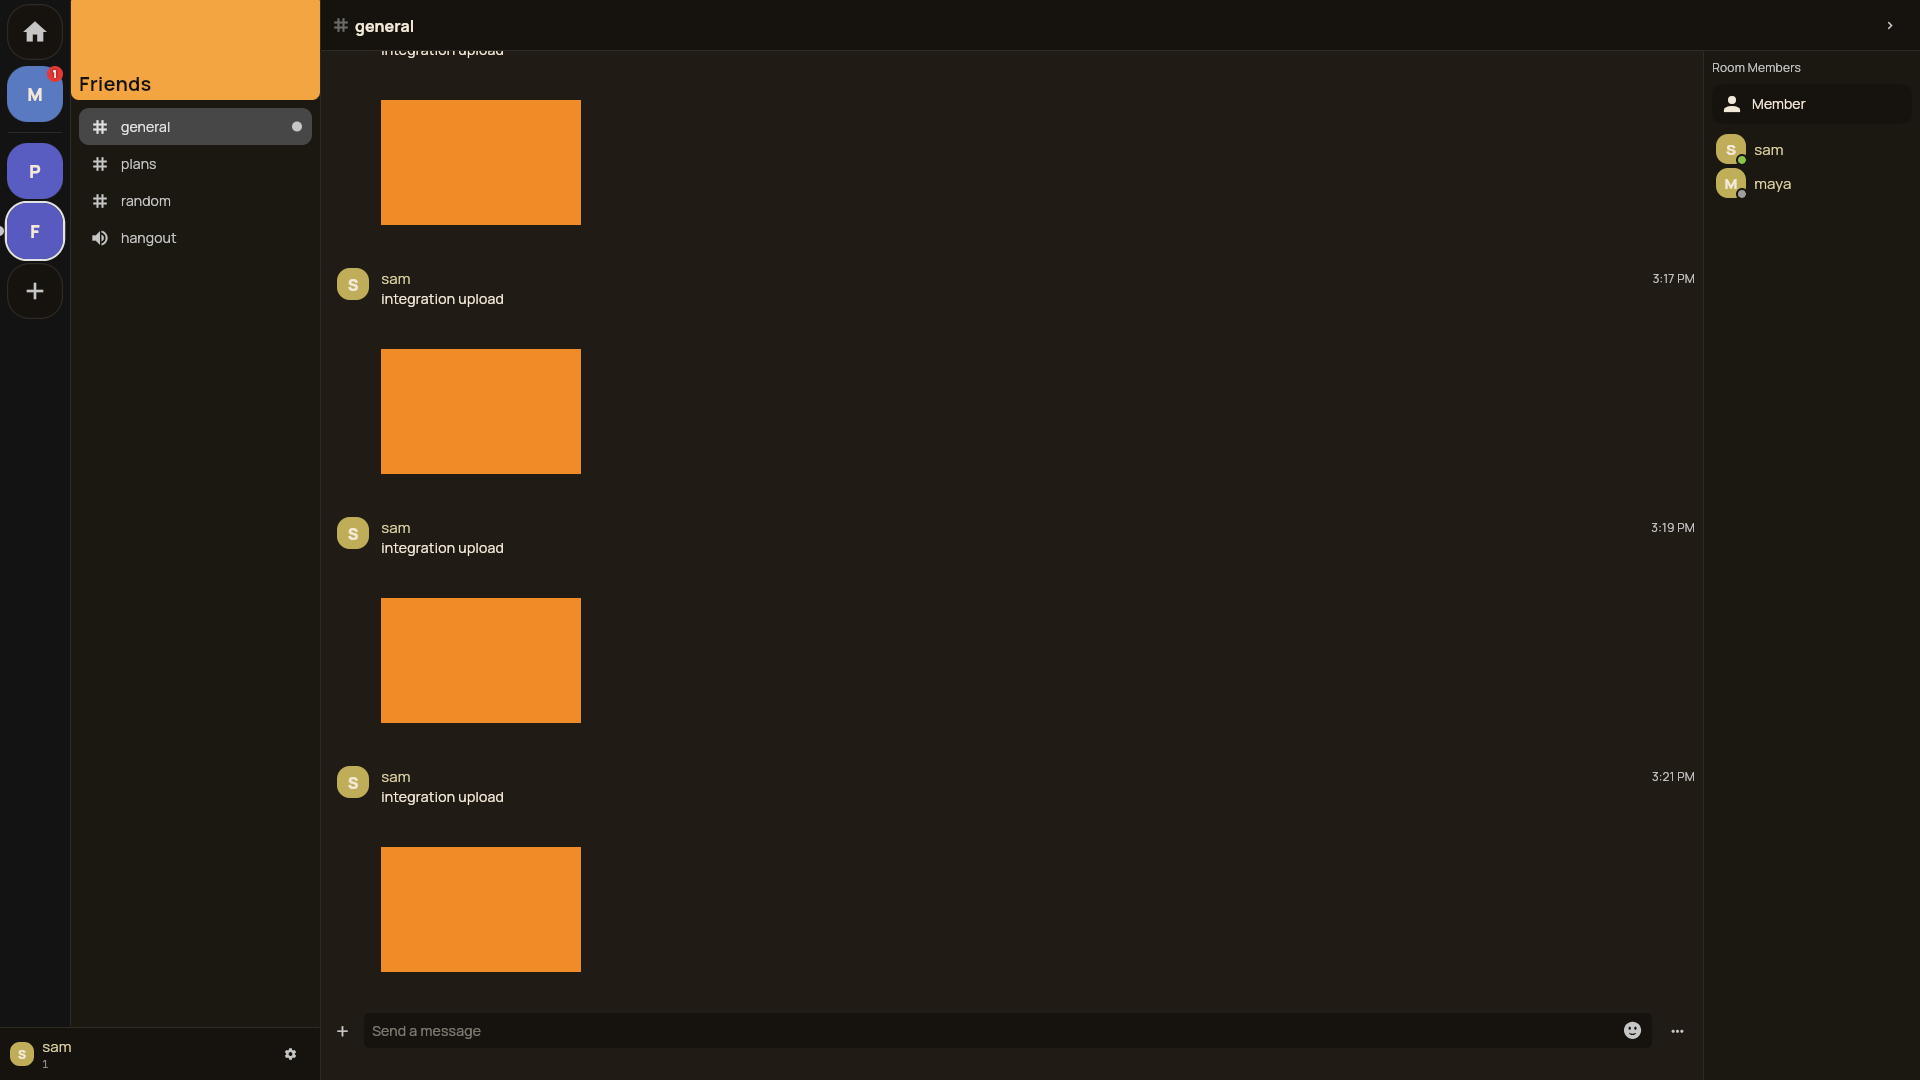
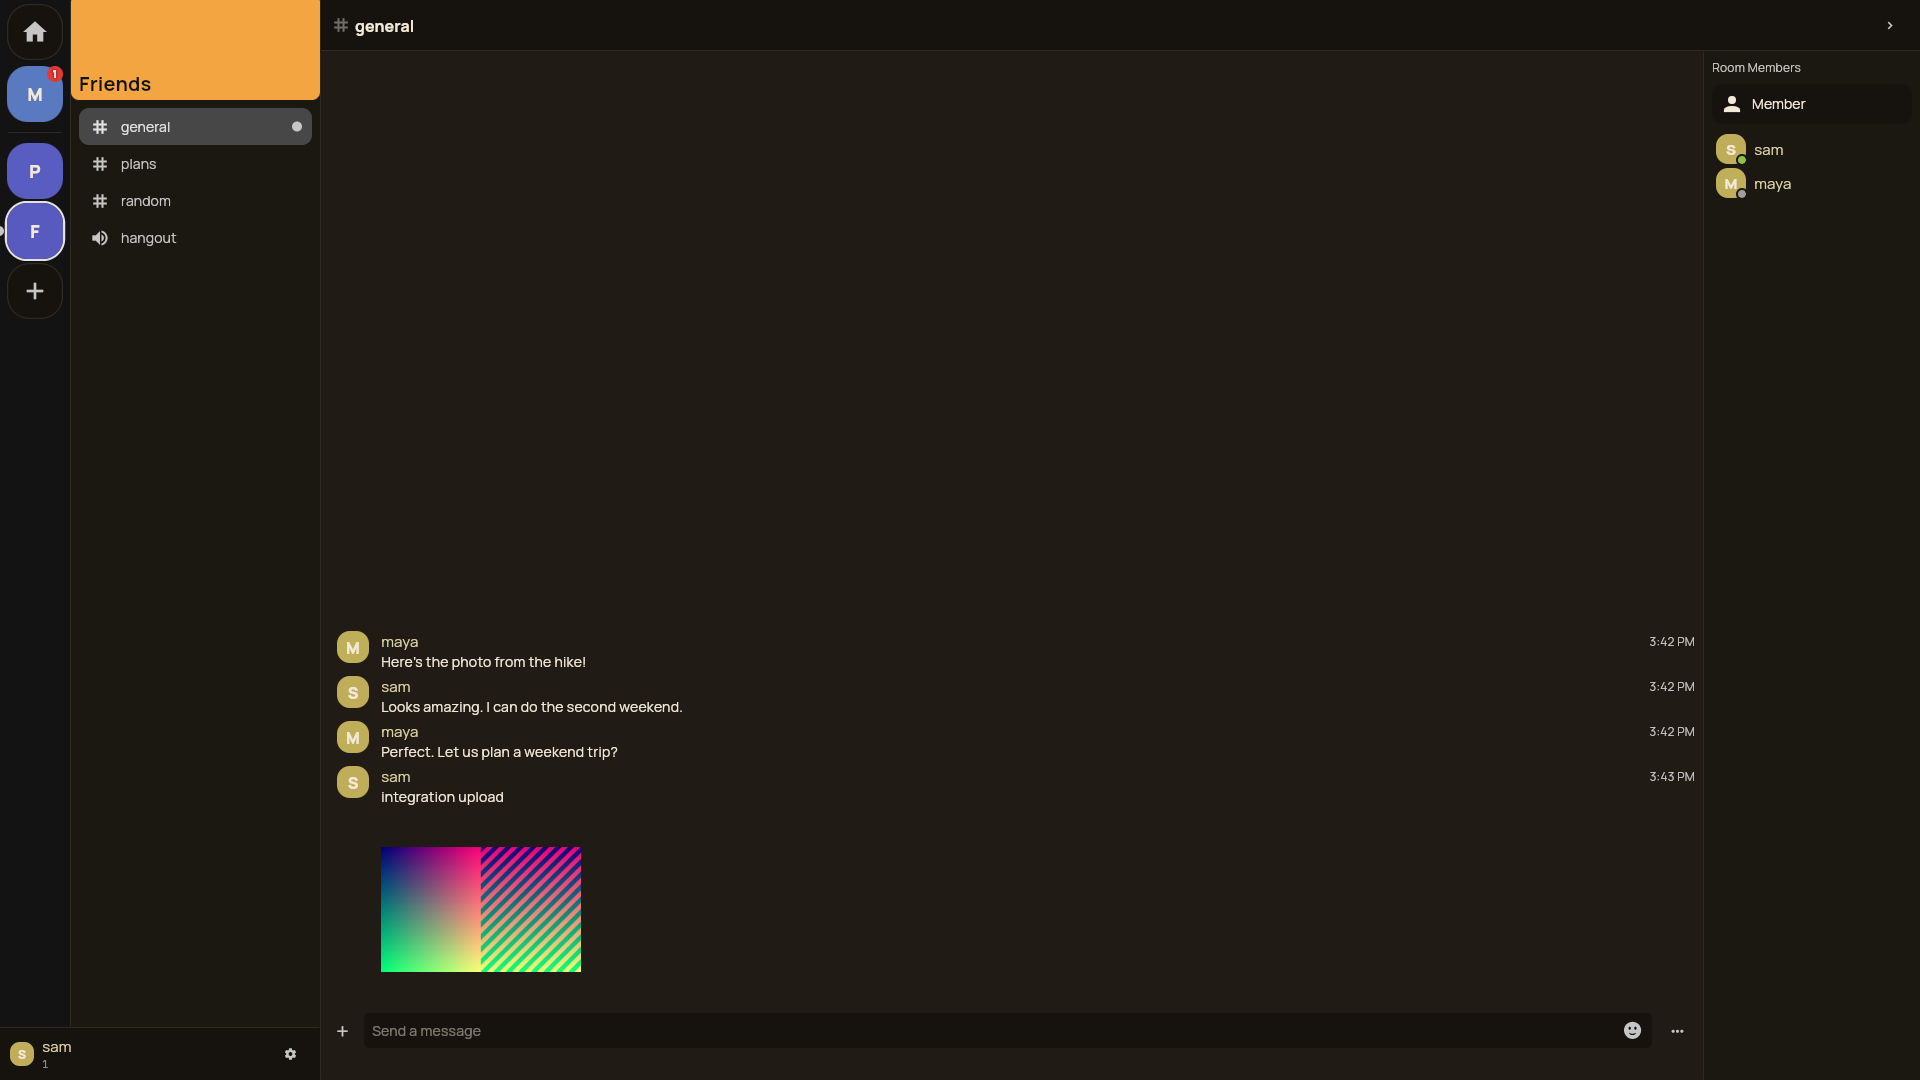
Commet Phase A: fix nested flex layout, stop suppressing errors, patterned preview check, permission asserts

diff --git a/apps/porch_commet/commet/integration_test/porch_phase_a_test.dart b/apps/porch_commet/commet/integration_test/porch_phase_a_test.dart
@@ -24,7 +24,6 @@ import 'package:flutter/material.dart';
 import 'package:flutter_test/flutter_test.dart';
 import 'package:image/image.dart' as img;
 import 'package:integration_test/integration_test.dart';
-import 'package:porch_flutter/bridge.dart';
 
 import 'package:commet/main.dart';
 import 'package:commet/utils/emoji/unicode_emoji.dart';
@@ -72,12 +71,6 @@ void main() {
     tiamat.getAppScale = () => preferences.appScale.value;
     Intl.defaultLocale = 'en';
     final app = App(clientManager: clientManager!);
-    final prevOnError = FlutterError.onError;
-    FlutterError.onError = (d) {
-      // Upstream Commet layout asserts (Expanded inside Flexible), debug-only, not Porch.
-      if (d.toString().contains('Competing ParentDataWidgets')) return;
-      prevOnError?.call(d);
-    };
     tester.view.physicalSize = const Size(1920, 1080);
     tester.view.devicePixelRatio = 1.0;
     await tester.pumpWidget(app);
@@ -124,8 +117,15 @@ void main() {
 
     // ---- upload through the injected picker seam into the REAL upload path ----
     final dir = Directory.systemTemp.createTempSync('porch-a-');
-    final png = img.encodePng(img.Image(width: 640, height: 400)
-      ..clear(img.ColorRgb8(240, 140, 40)));
+    final src = img.Image(width: 640, height: 400);
+    for (var y = 0; y < 400; y++) {
+      for (var x = 0; x < 640; x++) {
+        // Left half horizontal gradient, right half diagonal stripes; a solid
+        // fill could not prove the decoded preview is this image.
+        src.setPixelRgb(x, y, x < 320 ? (x * 255 ~/ 320) : (((x + y) ~/ 20) % 2 == 0 ? 20 : 235), y * 255 ~/ 400, 120);
+      }
+    }
+    final png = img.encodePng(src);
     final bytes = Uint8List.fromList(png);
     File('${dir.path}/sunset.png').writeAsBytesSync(bytes);
     var pickerCalls = 0;
@@ -170,6 +170,15 @@ void main() {
         provider.conversation, provider.message, provider.attachment);
     expect(preview.length, greaterThan(100));
     expect(preview.sublist(0, 4), [0x89, 0x50, 0x4E, 0x47], reason: 'server preview is a real PNG');
+    final decoded = img.decodePng(preview)!;
+    expect(decoded.width, greaterThan(0));
+    final sx = decoded.width / 640, sy = decoded.height / 400;
+    final left = decoded.getPixel((40 * sx).round(), (100 * sy).round());
+    final right = decoded.getPixel((600 * sx).round(), (100 * sy).round());
+    expect(left.r.toInt(), lessThan(60), reason: 'preview carries the left gradient (dark red edge)');
+    expect(left.b.toInt(), closeTo(120, 6));
+    expect([20, 235].any((v) => (right.r.toInt() - v).abs() < 8), isTrue,
+        reason: 'preview carries the right stripes, not a solid fill');
     await settle(tester, 1500);
     await settle(tester, 3000);
     print('IMG: image='+find.byType(Image).evaluate().length.toString()+' raw='+find.byType(RawImage).evaluate().length.toString());
@@ -242,9 +251,15 @@ void main() {
     final mGeneral = mSpace.rooms.whereType<PorchRoom>().firstWhere((r) => r.displayName == 'general');
     // maya is not the owner/admin: management affordances must be hidden
     // exactly when the server says so.
+    // Friends: ordinary members may send and invite (server default role
+    // grants SEND_MESSAGES and CREATE_INVITE); official announcements are
+    // read-only for non-owners (server test official_is_read_only_and_owner_safe).
     expect(mGeneral.permissions.canSendMessage, isTrue);
-    print('MAYA canInvite=${mSpace.canInvite} send=${mGeneral.canSend}');
-    expect(mSpace.permissions.canInviteUser, mSpace.canInvite);
+    expect(mSpace.canInvite, isTrue);
+    final mAnn = maya.spaces.whereType<PorchSpace>().firstWhere((s) => s.displayName == 'Porch Announcements');
+    expect(mAnn.canInvite, isFalse, reason: 'official community is read-only for members');
+    expect(mAnn.canSend, isFalse);
+    expect(mAnn.permissions.canInviteUser, isFalse);
     expect(mSpace.permissions.canEditAnything, isFalse);
     expect(mSpace.permissions.canKick, isFalse);
     expect(mSpace.permissions.canBan, isFalse);

diff --git a/apps/porch_commet/commet/lib/ui/pages/main/main_page_view_desktop.dart b/apps/porch_commet/commet/lib/ui/pages/main/main_page_view_desktop.dart
@@ -114,7 +114,7 @@ class MainPageViewDesktop extends StatelessWidget {
                   ],
                 ),
               ),
-              Expanded(child: mainView(context)),
+              mainView(context),
             ],
           ),
           if (state.currentRoom != null)
@@ -290,7 +290,7 @@ class MainPageViewDesktop extends StatelessWidget {
   Widget mainView(BuildContext context) {
     if (state.currentView == MainPageSubView.home ||
         state.currentView == MainPageSubView.rooms)
-      return Flexible(child: homeView());
+      return Expanded(child: homeView());
     if (state.currentRoom != null && state.currentView != MainPageSubView.home)
       return roomChatView();
     if (state.currentSpace != null && state.currentRoom == null)
@@ -319,6 +319,6 @@ class MainPageViewDesktop extends StatelessWidget {
         ),
       );
 
-    return Placeholder();
+    return const Expanded(child: Placeholder());
   }
 }
